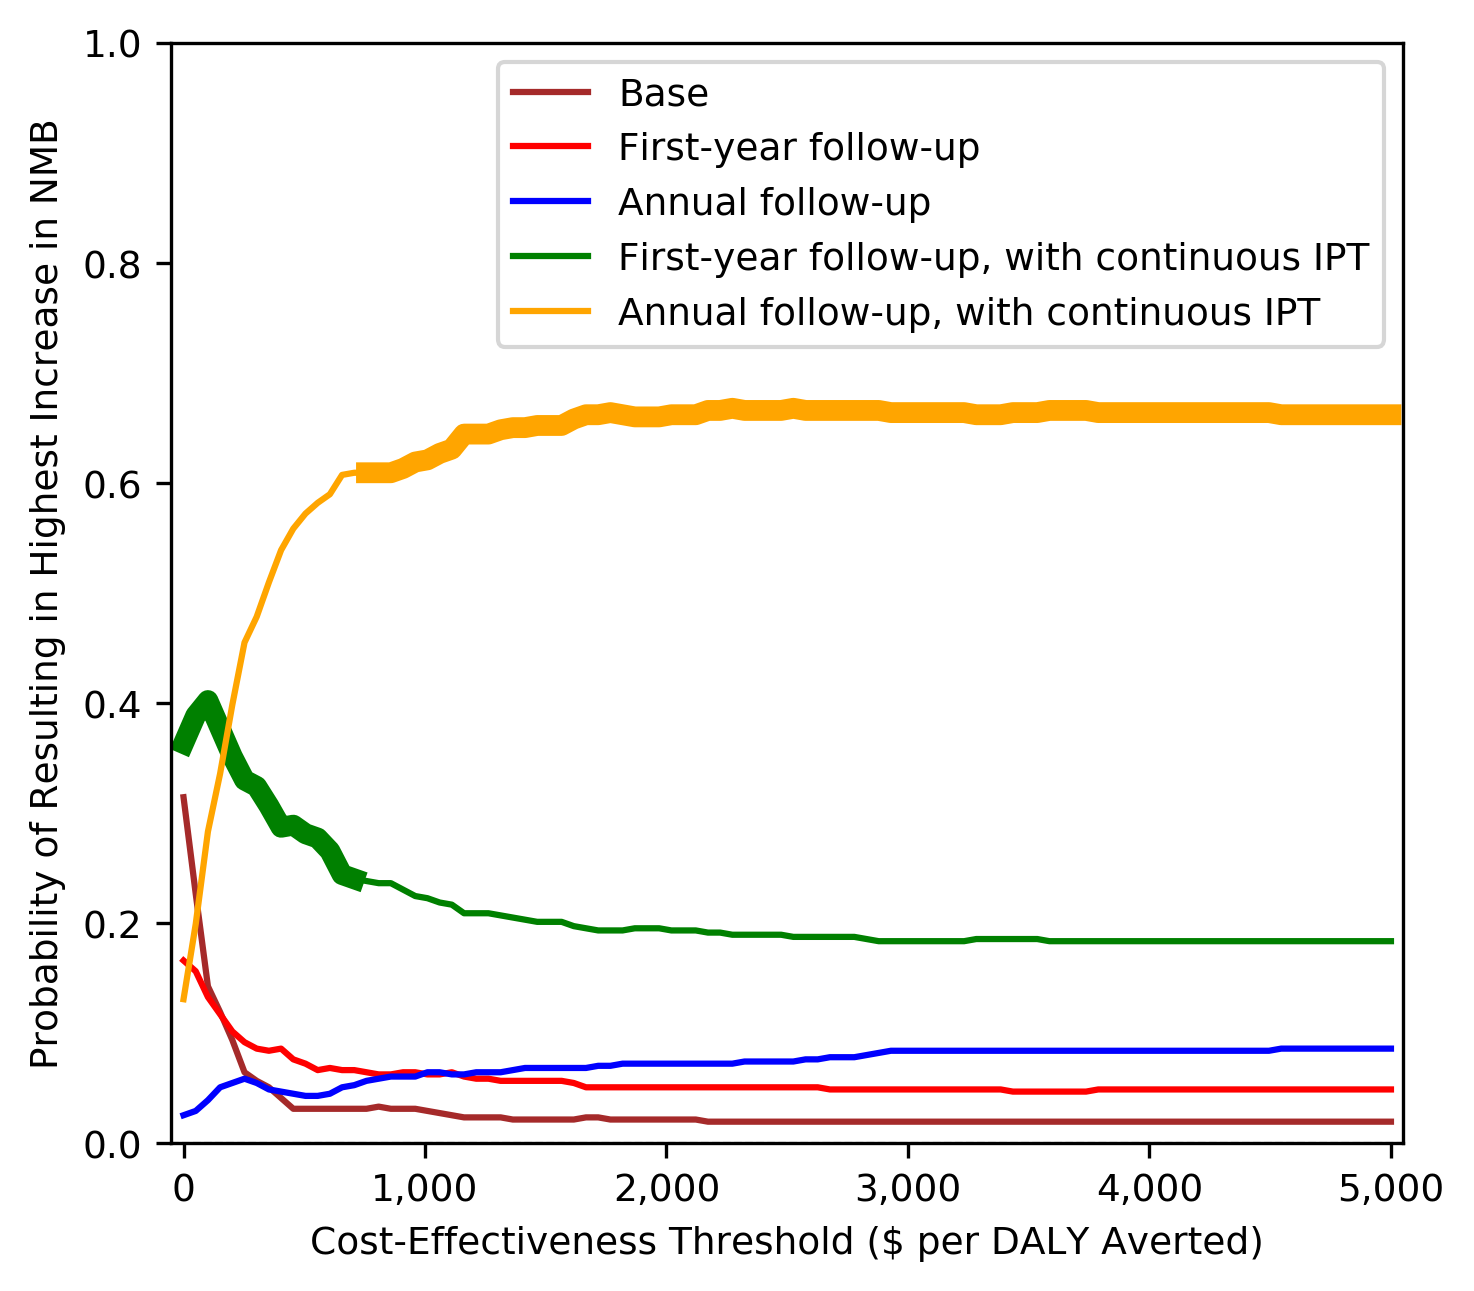
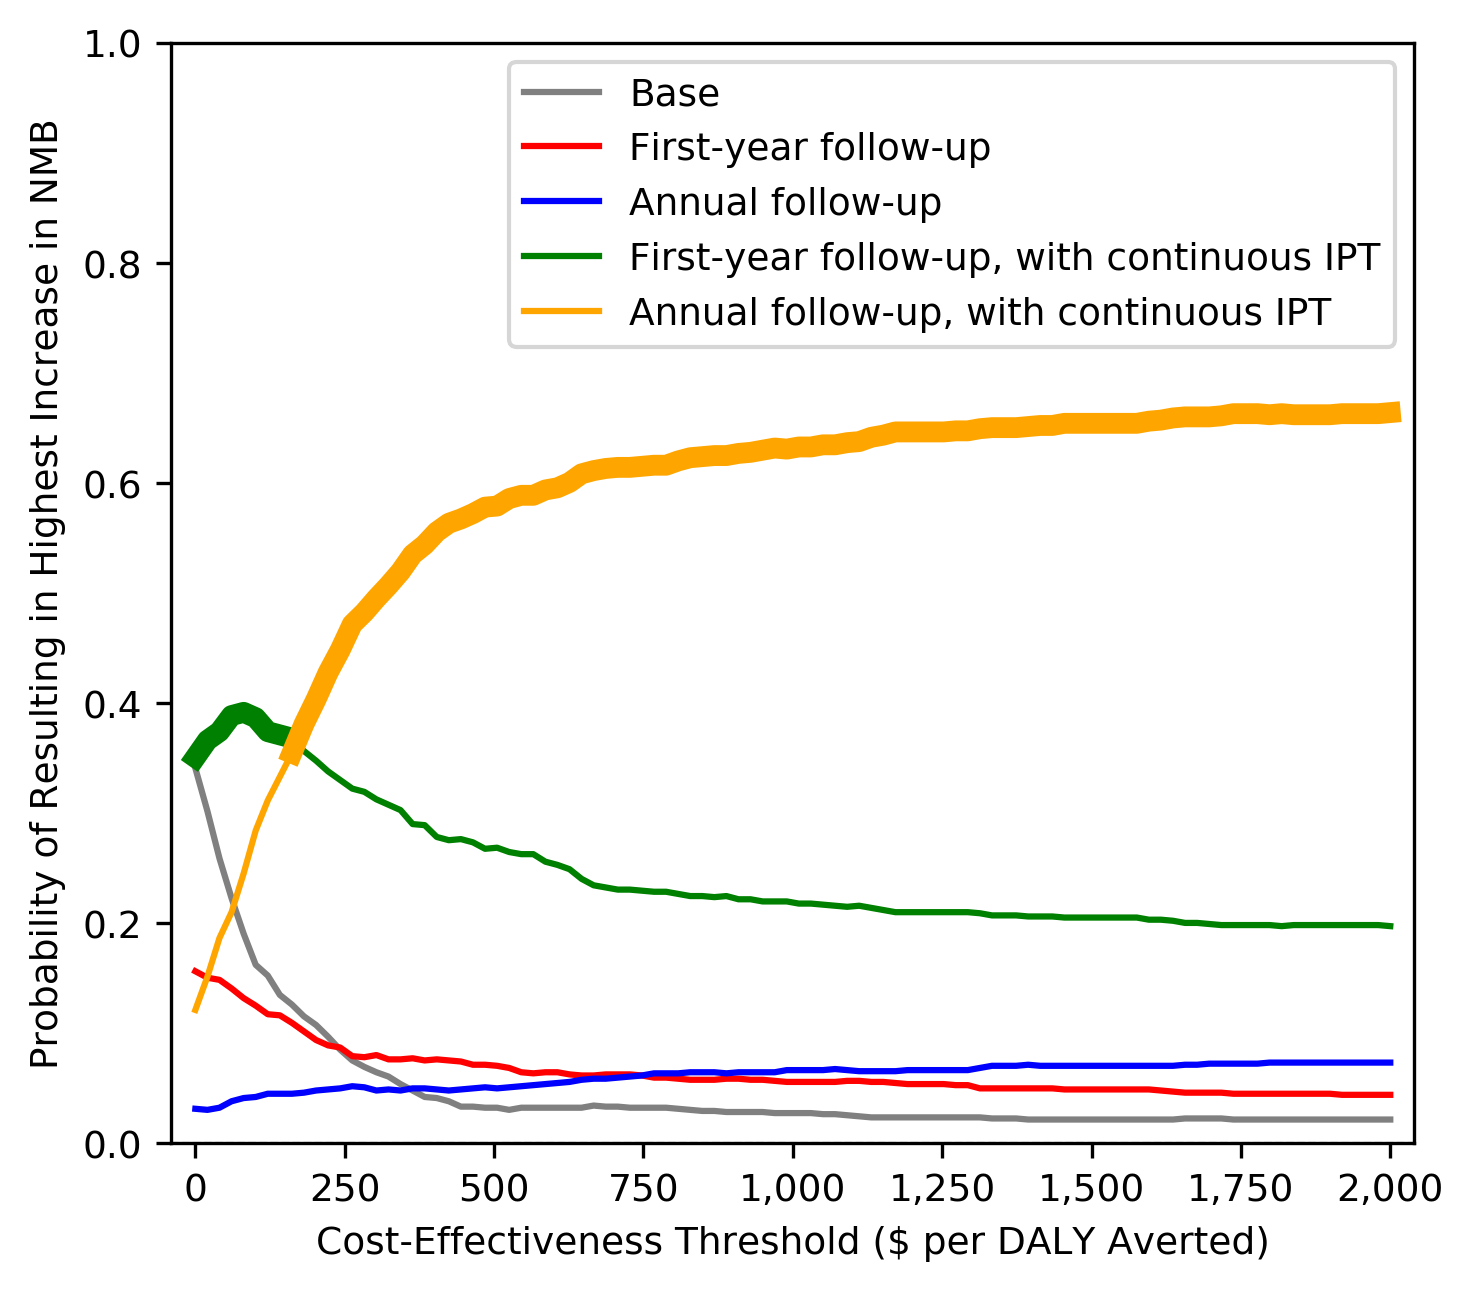
CEAC

diff --git a/apace/ScenariosClasses.py b/apace/ScenariosClasses.py
@@ -307,7 +307,8 @@ class SetOfScenarios:
                        interval_type='n',
                        effect_multiplier=1,
                        cost_multiplier=1,
-                       switch_cost_effect_on_figure=False):
+                       switch_cost_effect_on_figure=False,
+                       wtp_range=None):
 
         # cost-effectiveness analysis
         self.CEA = Econ.CEA(self.strategies,
@@ -316,6 +317,7 @@ class SetOfScenarios:
 
         # CBA
         self.CBA = Econ.CBA(self.strategies,
+                            wtp_range=wtp_range,
                             if_paired=True,
                             health_measure='d')
 
@@ -426,7 +428,8 @@ def populate_series(series_list,
                     interval_type='n',
                     effect_multiplier=1,
                     cost_multiplier=1,
-                    switch_cost_effect_on_figure=False):
+                    switch_cost_effect_on_figure=False,
+                    wtp_range=None):
     """
     :param series_list:
     :param save_cea_results: set it to True if the CE table should be generated
@@ -435,6 +438,7 @@ def populate_series(series_list,
     :param effect_multiplier:
     :param cost_multiplier:
     :param switch_cost_effect_on_figure: displays cost on the x-axis and effect on the y-axis
+    :param wtp_range: for net monetary benefit analysis
     """
 
     # populate series to display on the cost-effectiveness plane
@@ -509,7 +513,8 @@ def populate_series(series_list,
                            interval_type,
                            effect_multiplier=effect_multiplier,
                            cost_multiplier=cost_multiplier,
-                           switch_cost_effect_on_figure=switch_cost_effect_on_figure)
+                           switch_cost_effect_on_figure=switch_cost_effect_on_figure,
+                           wtp_range=wtp_range)
 
         ser.ifPopulated = True
 

diff --git a/tb/TB_CEA.py b/tb/TB_CEA.py
@@ -3,7 +3,7 @@ import apace.ScenariosClasses as Cls
 import numpy as np
 
 markers = ['o', 's', '^', 'D']
-colors = ['brown', 'red', 'blue', 'green', 'orange']
+colors = ['gray', 'red', 'blue', 'green', 'orange']
 
 PROB_UPTAKE = 0.75      # 0.5, 0.75, 1
 PROB_DROPOUT = 0.15     # 0.1, 0.15, 0.25,
@@ -63,26 +63,26 @@ Cls.populate_series(series,
                     colors_of_strategies=colors,
                     interval_type='p',
                     effect_multiplier=1,
-                    cost_multiplier=1 / 1e3)
+                    cost_multiplier=1 / 1e3,
+                    wtp_range=[0, 2000])
 
 # CBA
 #del series[0].CBA.strategies[1:3]
 plt.rc('font', size=9)  # fontsize of texts
 series[0].CBA.graph_incremental_NMBs(
     min_wtp=0,
-    max_wtp=1000,
+    max_wtp=5000,
     title='',
-    y_label='Net Monetary Benefit ($)',
+    y_label='Incremental Net Monetary Benefit ($)',
     x_label='Cost-Effectiveness Threshold ($ per DALY Averted)',
     interval_type='p',
     transparency=0.1,
     show_legend=True,
     figure_size=(6, 5)
 )
+print(series[0].CBA.get_highest_exp_NMB_wtp_range())
 
 series[0].CBA.graph_acceptability_curves(
-    min_wtp=0,
-    max_wtp=5000,
     #title='Cost-Effectiveness Acceptability Curves',
     x_label='Cost-Effectiveness Threshold ($ per DALY Averted)',
     y_label='Probability of Resulting in Highest Increase in NMB',
@@ -90,6 +90,8 @@ series[0].CBA.graph_acceptability_curves(
     figure_size=(5, 4.4),
     file_name='figures\cea\CEAC ' + scenario_name + '.png'
 )
+
+print(series[0].CBA.get_prob_highest_NMB_wtp_range())
 
 # print dCost, dEffect and cost-effectiveness ratio with respect to the base
 print(series[0].CEA.get_dCost_dEffect_cer(interval_type='p',

diff --git a/apace/ParametersClasses.py b/apace/ParametersClasses.py
@@ -51,7 +51,7 @@ class Parameters:
         if form is None:
             return sum_stat.get_mean(), sum_stat.get_PI(alpha=0.05)
         else:
-            return sum_stat.get_formatted_estimate_interval(
+            return sum_stat.get_formatted_mean_and_interval(
                 interval_type='p', alpha=0.05, deci=deci, form=form)
 
     def plot_histogram(self, parameter_name, title, x_lable=None, y_lable=None, x_range=None):
@@ -222,7 +222,7 @@ class Parameters:
         if form is None:
             return sum_stat.get_mean(), sum_stat.get_PI(alpha=0.05)
         else:
-            return sum_stat.get_formatted_estimate_interval(
+            return sum_stat.get_formatted_mean_and_interval(
                 interval_type='p', alpha=0.05, deci=deci, form=form)
 
     def plot_ratio_hist(self, numerator_par_name, denominator_par_names,

diff --git a/apace/TrajectoriesClasses.py b/apace/TrajectoriesClasses.py
@@ -107,7 +107,7 @@ class TrajOneOutcomeMultipleReps:
         if format is None:
             return stat.get_mean(), stat.get_PI(alpha=0.05)
         else:
-            return stat.get_formatted_estimate_interval(interval_type='p', alpha=0.05, deci=deci, form=format)
+            return stat.get_formatted_mean_and_interval(interval_type='p', alpha=0.05, deci=deci, form=format)
 
     def get_trajs_mean(self):
         """

diff --git a/apace/helpers.py b/apace/helpers.py
@@ -66,6 +66,6 @@ def get_mean_interval(stat, interval_type='c', deci=0, form=None):
         else:
             raise ValueError('Invalid interval type.')
     else:
-        return stat.get_formatted_estimate_interval(
+        return stat.get_formatted_mean_and_interval(
             interval_type=interval_type, alpha=0.05, deci=deci, form=form)
 
